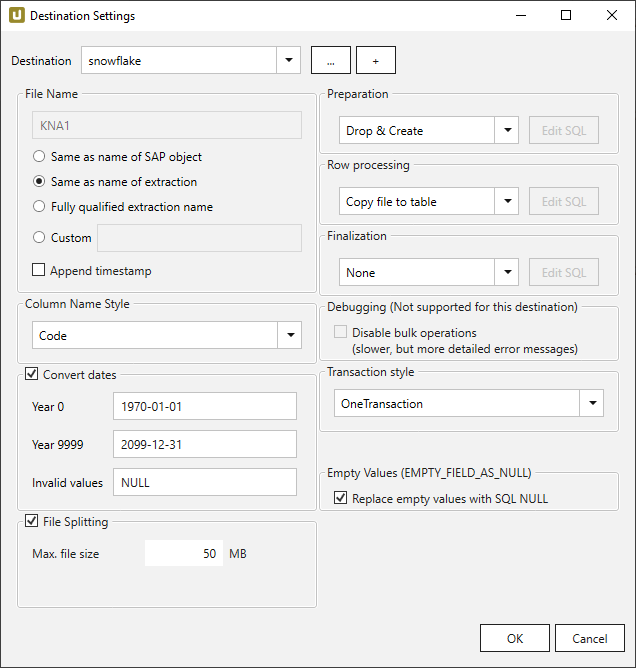
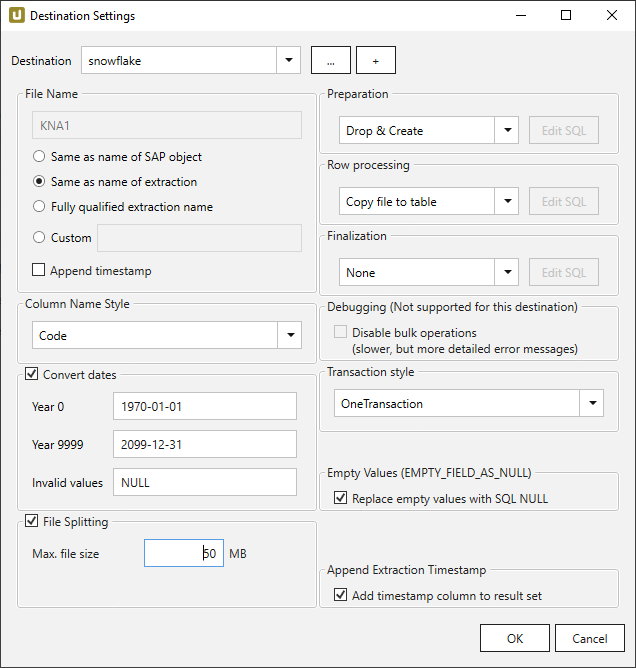
XU: snowflake Append Extraction Timestamp

Changed region(s): [[0.5079, 0.8383, 0.8664, 0.8982]]

diff --git a/projects/xtract-universal/docs/documentation/destinations/snowflake.md b/projects/xtract-universal/docs/documentation/destinations/snowflake.md
@@ -132,9 +132,13 @@ Select a Snowflake Data Warehouse.
 	**NULL result in a non-nullable column.**<br>
 	By default empty strings are converted to NULL values when uploading data to Snowflake. To deactivate the conversion, disable **Replace empty values with SQL NULL**.
 
-#### Replace empty values with SQL NULL
 This option controls the Snowflake file format parameter EMPTY_FIELD_AS_NULL.
 When **Replace empty values with SQL NULL** is active, empty strings are converted to NULL values when uploading data to Snowflake.
+
+### Append Extraction Timestamp
+
+When **Add timestamp column to result set** is active, an additional column *ExtractionTimestamp* is added to the output of the extraction.
+The timestamp uses the format  `yyyy-MM-dd'T'HH:mm:ss.SSS'Z'` (UTC).
 
 {% include "destinations/db-merge-data.md" %} 
 
